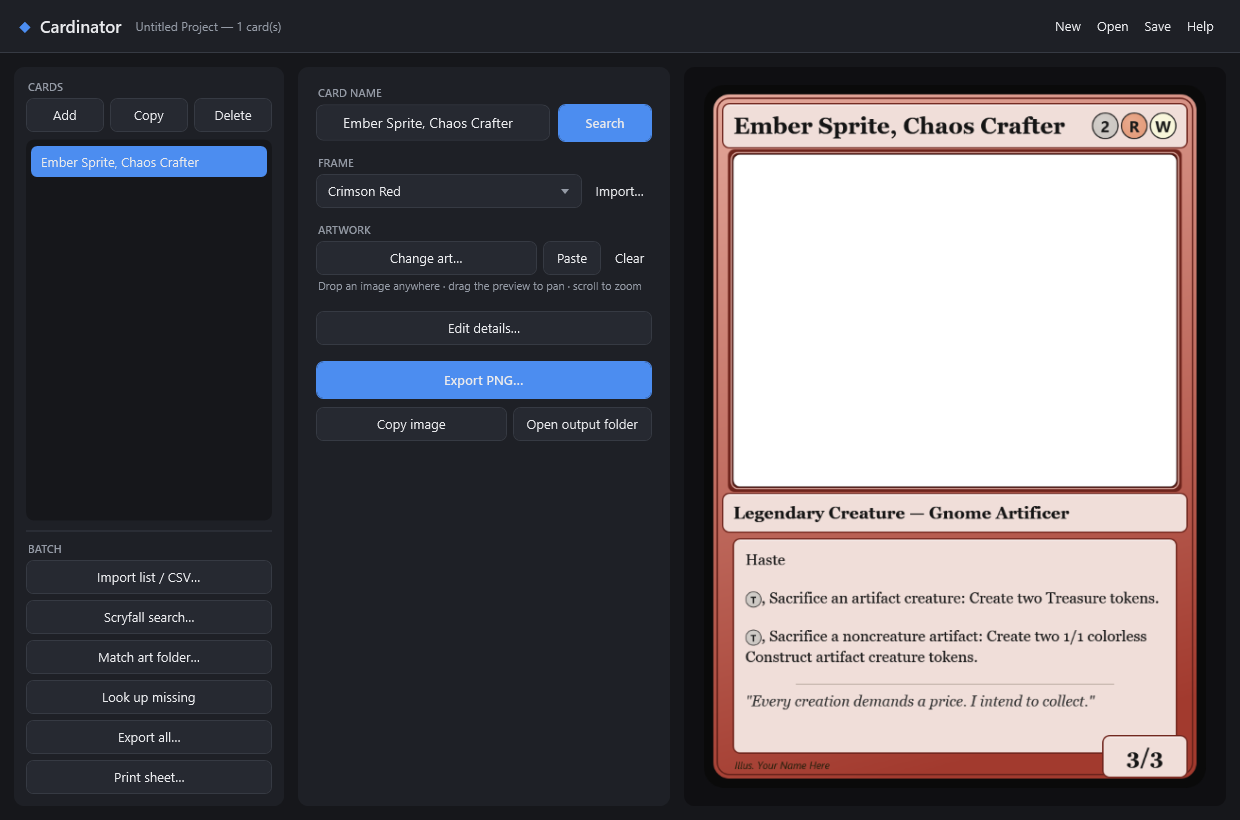
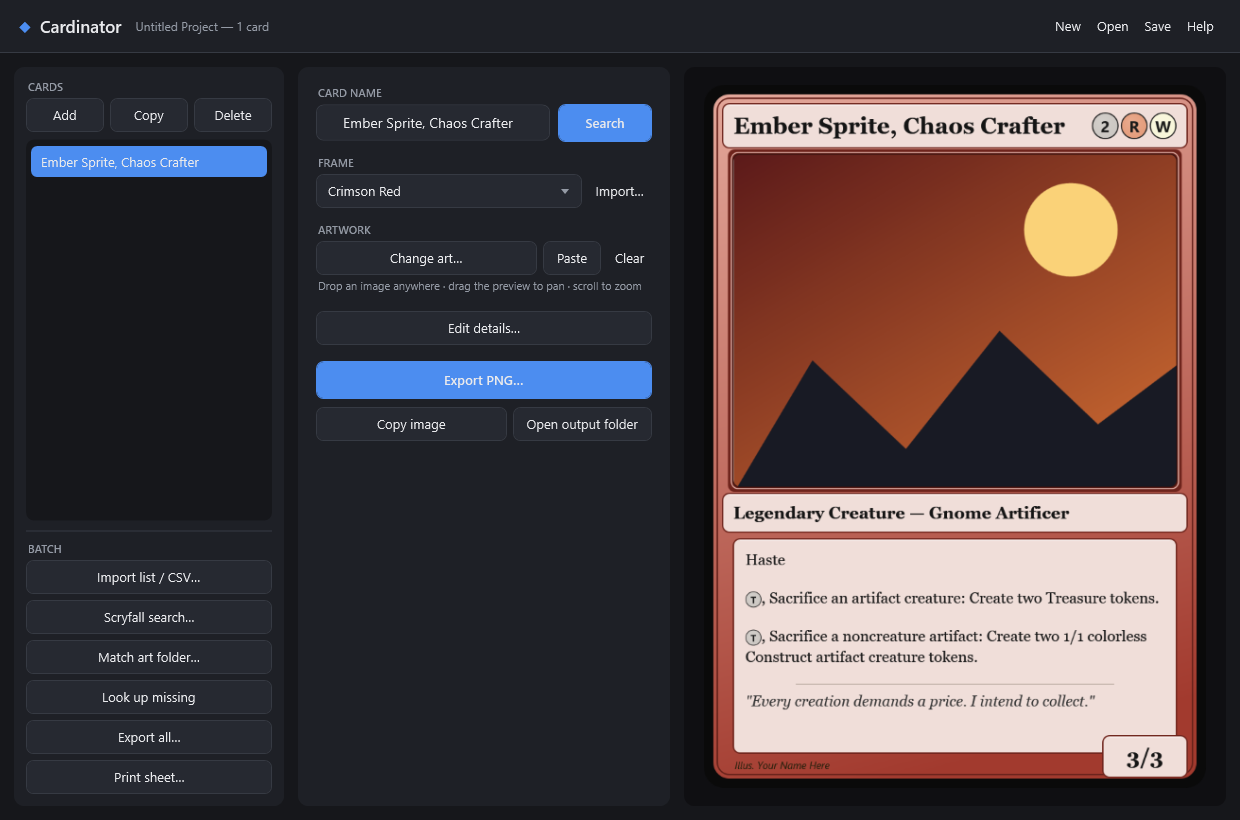
Polish: art in the main-window screenshot + fix card-count pluralization

Changed region(s): [[0.5823, 0.1829, 0.95, 0.6098]]

diff --git a/src/Cardinator/App.xaml.cs b/src/Cardinator/App.xaml.cs
@@ -128,6 +128,14 @@ public partial class App : Application
             Directory.CreateDirectory(outDir);
 
             var main = new MainWindow();
+            // Give the preview card some art so the flagship screenshot isn't a blank window.
+            var shot = main.SelectedCard;
+            if (shot != null)
+            {
+                shot.ArtPath = "examples/01-custom-set/art/emberwing.png";
+                main.SelectedCard = null;
+                main.SelectedCard = shot;   // re-select to re-render the preview synchronously
+            }
             SaveWindow(main, 1240, 820, Path.Combine(outDir, "app-main.png"));
 
             var sample = SampleCards.All("Ocean Blue").First().Clone();

diff --git a/src/Cardinator/MainWindow.xaml.cs b/src/Cardinator/MainWindow.xaml.cs
@@ -121,7 +121,7 @@ public partial class MainWindow : Window, INotifyPropertyChanged
         set { _exportProgress = value; OnPropertyChanged(); }
     }
 
-    public string ProjectSummary => $"{_projectName} — {Cards.Count} card(s)";
+    public string ProjectSummary => $"{_projectName} — {Cards.Count} {(Cards.Count == 1 ? "card" : "cards")}";
 
     public string WindowTitle => (_dirty ? "● " : "") + _projectName + " — Cardinator";
 
